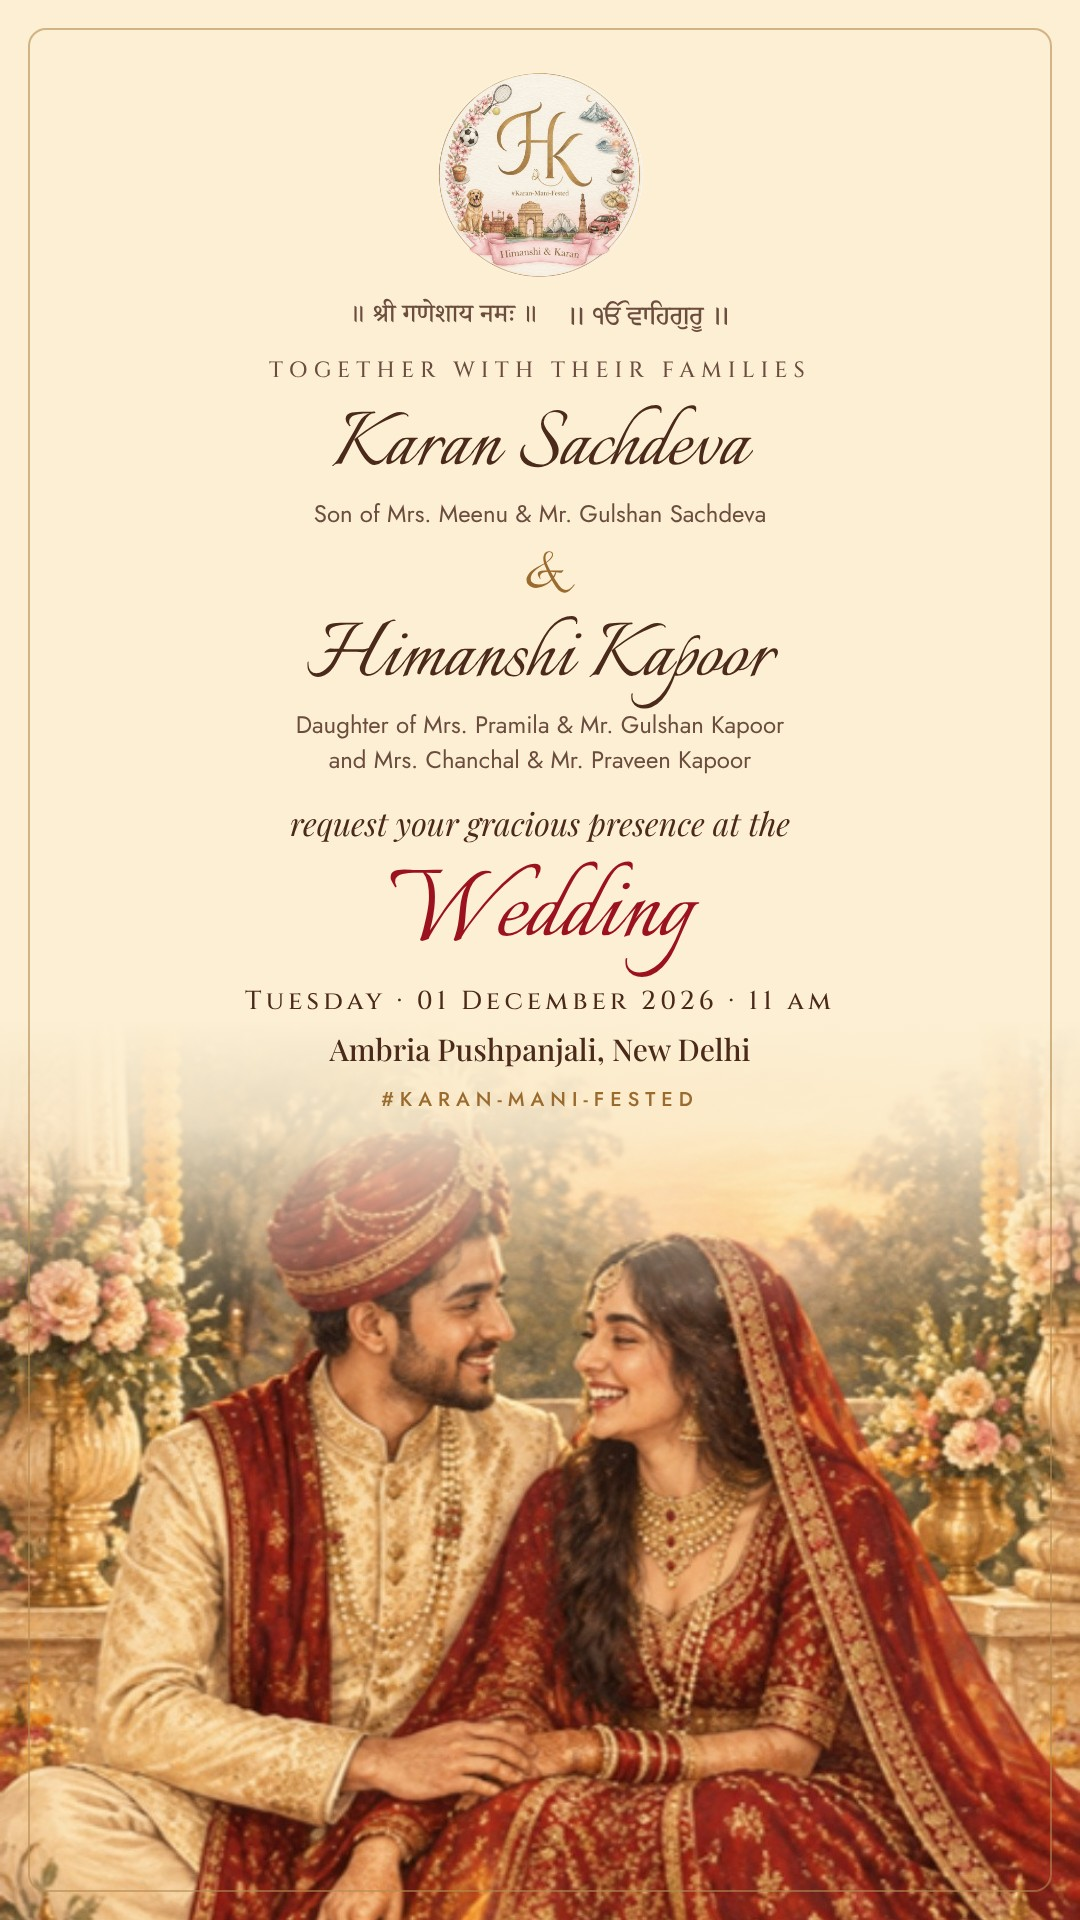
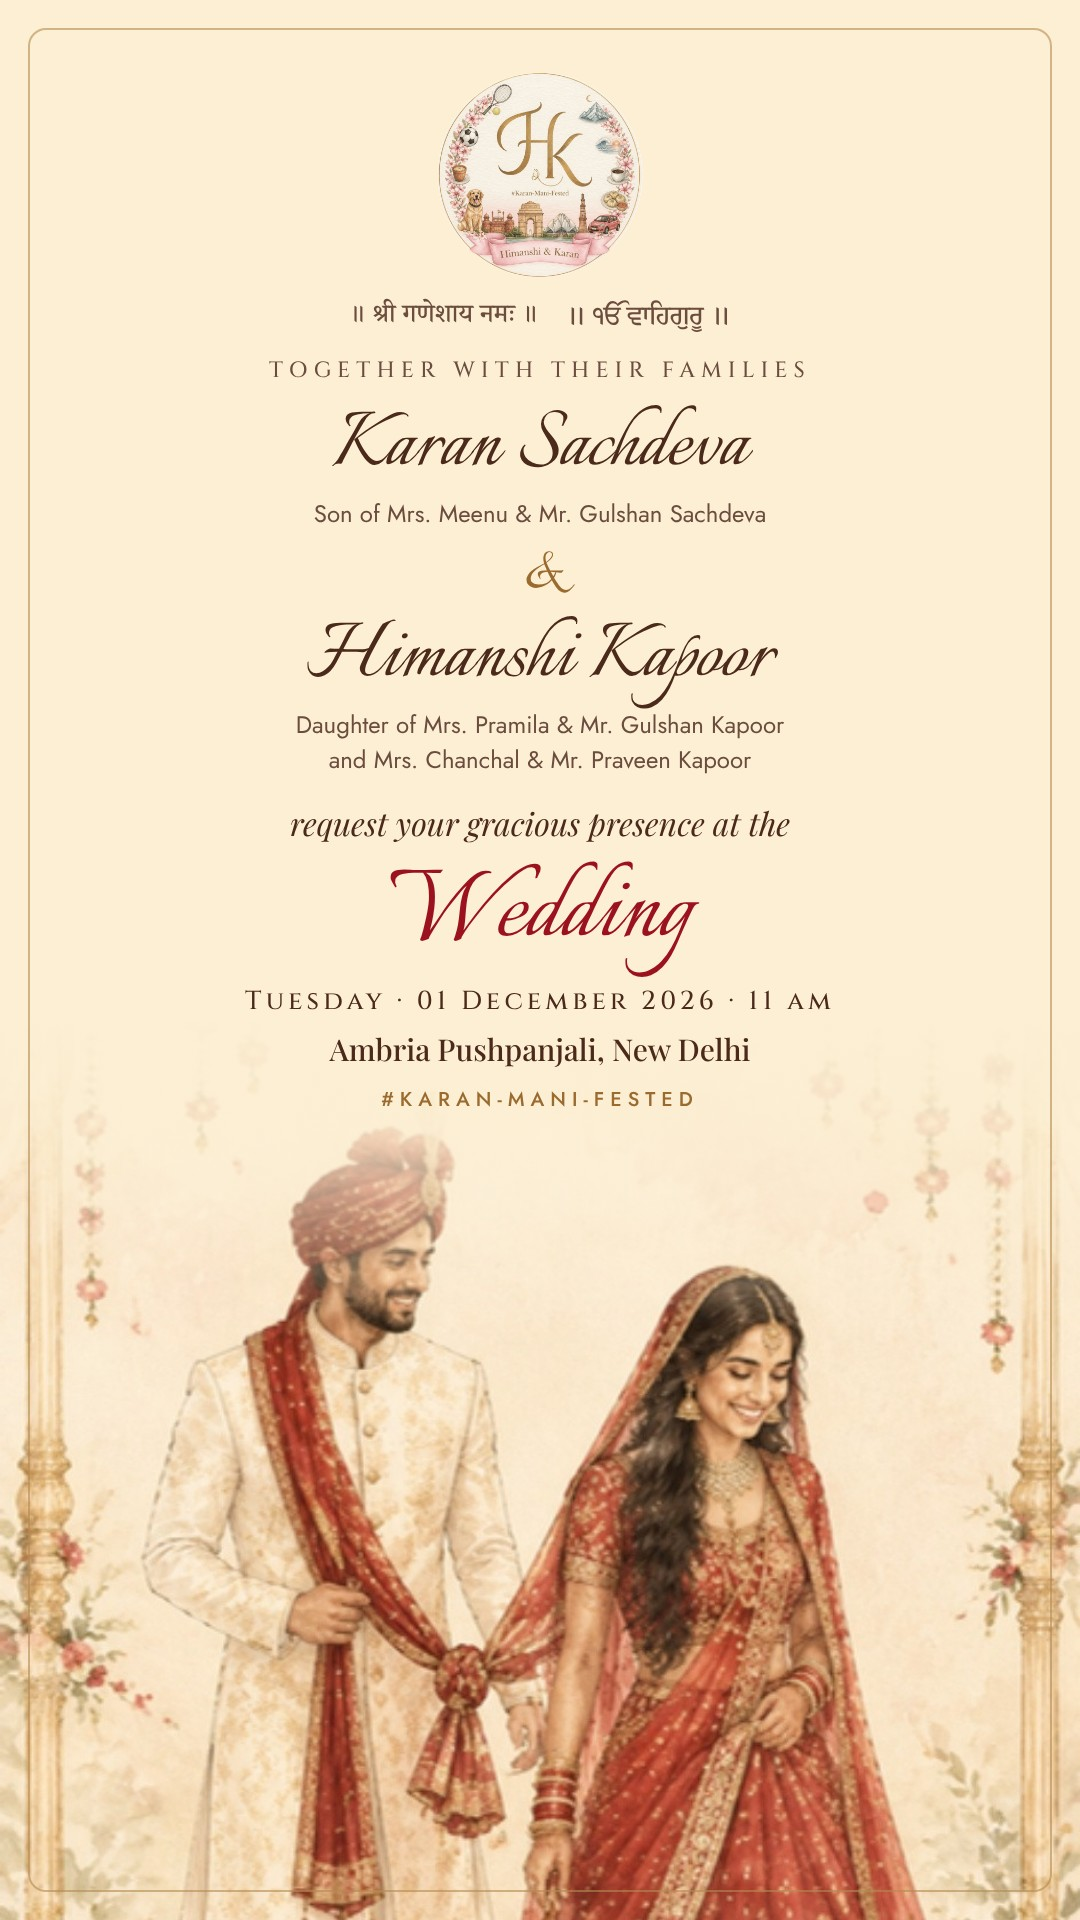
Use the pheras painting for the wedding scene and the wedding image card
Claude-Session: https://claude.ai/code/session_019B6NoVCTSqGoMKxvRqAEtT

diff --git a/bride-no-cocktail/index.html b/bride-no-cocktail/index.html
@@ -28,9 +28,9 @@
   <link rel="preconnect" href="https://fonts.googleapis.com">
   <link rel="preconnect" href="https://fonts.gstatic.com" crossorigin>
   <link href="https://fonts.googleapis.com/css2?family=Cinzel:wght@400;500;600&family=Italianno&family=Jost:wght@300;400;500;600&family=Noto+Serif+Devanagari:wght@500&family=Noto+Serif+Gurmukhi:wght@500&family=Patrick+Hand&family=Playfair+Display:ital,wght@0,400;0,500;1,400;1,500&display=swap" rel="stylesheet">
-  <link rel="stylesheet" href="css/main.css?v=33">
+  <link rel="stylesheet" href="css/main.css?v=34">
   <script>window.INVITE_VERSION = "bride-no-cocktail";</script>
-  <script src="js/content.js?v=33"></script>
+  <script src="js/content.js?v=34"></script>
 </head>
 <body class="locked">
 
@@ -146,6 +146,6 @@
     <span></span><span></span><span></span><span></span>
   </button>
 
-  <script src="js/page.js?v=33"></script>
+  <script src="js/page.js?v=34"></script>
 </body>
 </html>

diff --git a/bride-complete/index.html b/bride-complete/index.html
@@ -28,9 +28,9 @@
   <link rel="preconnect" href="https://fonts.googleapis.com">
   <link rel="preconnect" href="https://fonts.gstatic.com" crossorigin>
   <link href="https://fonts.googleapis.com/css2?family=Cinzel:wght@400;500;600&family=Italianno&family=Jost:wght@300;400;500;600&family=Noto+Serif+Devanagari:wght@500&family=Noto+Serif+Gurmukhi:wght@500&family=Patrick+Hand&family=Playfair+Display:ital,wght@0,400;0,500;1,400;1,500&display=swap" rel="stylesheet">
-  <link rel="stylesheet" href="css/main.css?v=33">
+  <link rel="stylesheet" href="css/main.css?v=34">
   <script>window.INVITE_VERSION = "bride-complete";</script>
-  <script src="js/content.js?v=33"></script>
+  <script src="js/content.js?v=34"></script>
 </head>
 <body class="locked">
 
@@ -146,6 +146,6 @@
     <span></span><span></span><span></span><span></span>
   </button>
 
-  <script src="js/page.js?v=33"></script>
+  <script src="js/page.js?v=34"></script>
 </body>
 </html>

diff --git a/groom-cocktail/index.html b/groom-cocktail/index.html
@@ -28,9 +28,9 @@
   <link rel="preconnect" href="https://fonts.googleapis.com">
   <link rel="preconnect" href="https://fonts.gstatic.com" crossorigin>
   <link href="https://fonts.googleapis.com/css2?family=Cinzel:wght@400;500;600&family=Italianno&family=Jost:wght@300;400;500;600&family=Noto+Serif+Devanagari:wght@500&family=Noto+Serif+Gurmukhi:wght@500&family=Patrick+Hand&family=Playfair+Display:ital,wght@0,400;0,500;1,400;1,500&display=swap" rel="stylesheet">
-  <link rel="stylesheet" href="css/main.css?v=33">
+  <link rel="stylesheet" href="css/main.css?v=34">
   <script>window.INVITE_VERSION = "groom-cocktail";</script>
-  <script src="js/content.js?v=33"></script>
+  <script src="js/content.js?v=34"></script>
 </head>
 <body class="locked">
 
@@ -146,6 +146,6 @@
     <span></span><span></span><span></span><span></span>
   </button>
 
-  <script src="js/page.js?v=33"></script>
+  <script src="js/page.js?v=34"></script>
 </body>
 </html>

diff --git a/groom-complete/index.html b/groom-complete/index.html
@@ -28,9 +28,9 @@
   <link rel="preconnect" href="https://fonts.googleapis.com">
   <link rel="preconnect" href="https://fonts.gstatic.com" crossorigin>
   <link href="https://fonts.googleapis.com/css2?family=Cinzel:wght@400;500;600&family=Italianno&family=Jost:wght@300;400;500;600&family=Noto+Serif+Devanagari:wght@500&family=Noto+Serif+Gurmukhi:wght@500&family=Patrick+Hand&family=Playfair+Display:ital,wght@0,400;0,500;1,400;1,500&display=swap" rel="stylesheet">
-  <link rel="stylesheet" href="css/main.css?v=33">
+  <link rel="stylesheet" href="css/main.css?v=34">
   <script>window.INVITE_VERSION = "groom-complete";</script>
-  <script src="js/content.js?v=33"></script>
+  <script src="js/content.js?v=34"></script>
 </head>
 <body class="locked">
 
@@ -146,6 +146,6 @@
     <span></span><span></span><span></span><span></span>
   </button>
 
-  <script src="js/page.js?v=33"></script>
+  <script src="js/page.js?v=34"></script>
 </body>
 </html>

diff --git a/bride-wedding/index.html b/bride-wedding/index.html
@@ -28,9 +28,9 @@
   <link rel="preconnect" href="https://fonts.googleapis.com">
   <link rel="preconnect" href="https://fonts.gstatic.com" crossorigin>
   <link href="https://fonts.googleapis.com/css2?family=Cinzel:wght@400;500;600&family=Italianno&family=Jost:wght@300;400;500;600&family=Noto+Serif+Devanagari:wght@500&family=Noto+Serif+Gurmukhi:wght@500&family=Patrick+Hand&family=Playfair+Display:ital,wght@0,400;0,500;1,400;1,500&display=swap" rel="stylesheet">
-  <link rel="stylesheet" href="css/main.css?v=33">
+  <link rel="stylesheet" href="css/main.css?v=34">
   <script>window.INVITE_VERSION = "bride-wedding";</script>
-  <script src="js/content.js?v=33"></script>
+  <script src="js/content.js?v=34"></script>
 </head>
 <body class="locked">
 
@@ -146,6 +146,6 @@
     <span></span><span></span><span></span><span></span>
   </button>
 
-  <script src="js/page.js?v=33"></script>
+  <script src="js/page.js?v=34"></script>
 </body>
 </html>

diff --git a/groom-wedding/index.html b/groom-wedding/index.html
@@ -28,9 +28,9 @@
   <link rel="preconnect" href="https://fonts.googleapis.com">
   <link rel="preconnect" href="https://fonts.gstatic.com" crossorigin>
   <link href="https://fonts.googleapis.com/css2?family=Cinzel:wght@400;500;600&family=Italianno&family=Jost:wght@300;400;500;600&family=Noto+Serif+Devanagari:wght@500&family=Noto+Serif+Gurmukhi:wght@500&family=Patrick+Hand&family=Playfair+Display:ital,wght@0,400;0,500;1,400;1,500&display=swap" rel="stylesheet">
-  <link rel="stylesheet" href="css/main.css?v=33">
+  <link rel="stylesheet" href="css/main.css?v=34">
   <script>window.INVITE_VERSION = "groom-wedding";</script>
-  <script src="js/content.js?v=33"></script>
+  <script src="js/content.js?v=34"></script>
 </head>
 <body class="locked">
 
@@ -146,6 +146,6 @@
     <span></span><span></span><span></span><span></span>
   </button>
 
-  <script src="js/page.js?v=33"></script>
+  <script src="js/page.js?v=34"></script>
 </body>
 </html>

diff --git a/index.html b/index.html
@@ -26,8 +26,8 @@
   <link rel="preconnect" href="https://fonts.googleapis.com">
   <link rel="preconnect" href="https://fonts.gstatic.com" crossorigin>
   <link href="https://fonts.googleapis.com/css2?family=Cinzel:wght@400;500;600&family=Italianno&family=Jost:wght@300;400;500;600&family=Noto+Serif+Devanagari:wght@500&family=Noto+Serif+Gurmukhi:wght@500&family=Patrick+Hand&family=Playfair+Display:ital,wght@0,400;0,500;1,400;1,500&display=swap" rel="stylesheet">
-  <link rel="stylesheet" href="css/main.css?v=33">
-  <script src="js/content.js?v=33"></script>
+  <link rel="stylesheet" href="css/main.css?v=34">
+  <script src="js/content.js?v=34"></script>
 </head>
 <body class="locked">
 
@@ -143,6 +143,6 @@
     <span></span><span></span><span></span><span></span>
   </button>
 
-  <script src="js/page.js?v=33"></script>
+  <script src="js/page.js?v=34"></script>
 </body>
 </html>

diff --git a/tools/card/card.html b/tools/card/card.html
@@ -44,7 +44,7 @@
 </div>
 <script>
   const CARDS = {
-    wedding:  { event: "Wedding", when: "Tuesday · 01 December 2026 · 11 am", venue: "Ambria Pushpanjali, New Delhi", art: "ev-wedding.jpg", accent: "#9b111e", pos: "50% 60%" },
+    wedding:  { event: "Wedding", when: "Tuesday · 01 December 2026 · 11 am", venue: "Ambria Pushpanjali, New Delhi", art: "ev-wedding.jpg", accent: "#9b111e", pos: "50% 31%" },
     sangeet:  { event: "Sangeet", when: "Saturday · 28 November 2026 · 7 pm", venue: "ClubXO, New Delhi", art: "ev-cocktail.jpg", accent: "#2c3f6b", pos: "50% 45%" },
   };
   const c = CARDS[location.hash.slice(1)] || CARDS.wedding;
